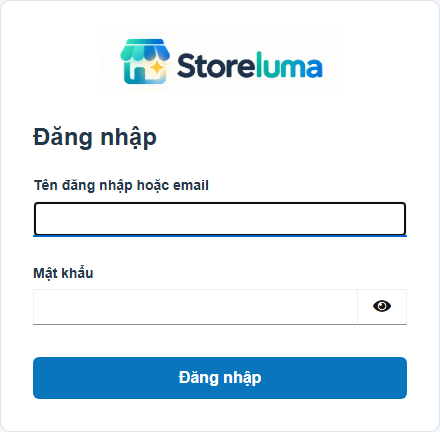
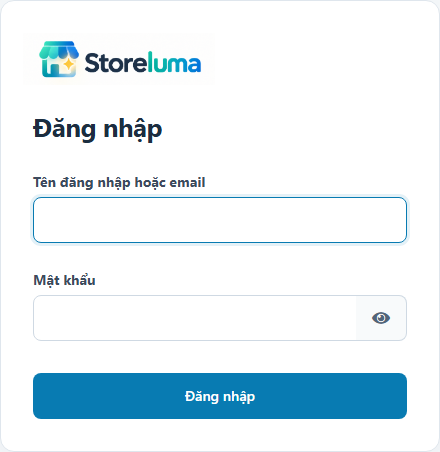
Refine sign-in screens and document authentication checks

diff --git a/infra/keycloak/themes/storeluma/login/resources/css/storeluma.css b/infra/keycloak/themes/storeluma/login/resources/css/storeluma.css
@@ -1,19 +1,50 @@
 :root {
-  --pf-v5-global--primary-color--100: #0875bc;
-  --pf-v5-global--primary-color--200: #065e97;
-  --pf-v5-global--FontFamily--text: Arial, Helvetica, sans-serif;
-  --pf-v5-global--FontFamily--heading: Arial, Helvetica, sans-serif;
+  --pf-v5-global--primary-color--100: #087bb2;
+  --pf-v5-global--primary-color--200: #06638f;
+  --pf-v5-global--FontFamily--text: "Segoe UI", Arial, sans-serif;
+  --pf-v5-global--FontFamily--heading: "Segoe UI", Arial, sans-serif;
 }
-.login-pf body { background: #f5f7fa; color: #24364a; }
-.pf-v5-c-login { min-height: 100dvh; padding: 32px 20px; }
-.pf-v5-c-login .pf-v5-c-login__container { display: block; width: min(440px, 100%); padding: 0; }
-#kc-header { margin: 0; padding: 28px 32px 8px; background: white; border: 1px solid #dce3eb; border-bottom: 0; border-radius: 10px 10px 0 0; }
-#kc-header-wrapper { width: 240px; max-width: 100%; height: 64px; margin: auto; background: url('../brand/Logo_Storeluma.png') center 48% / 100% auto no-repeat; font-size: 0; }
-.pf-v5-c-login__main { border: 1px solid #dce3eb; border-top: 0; border-radius: 0 0 10px 10px; box-shadow: none; }
-.pf-v5-c-login__main-header { border: 0; padding: 20px 32px; grid-template-columns: 1fr; }
-#kc-page-title { font-size: 24px; font-weight: 600; color: #24364a; }
+.login-pf body { background: #f4f7f9; color: #243346; }
+.pf-v5-c-login { min-height: 100dvh; padding: 32px 20px; display: flex; align-items: center; justify-content: center; }
+.pf-v5-c-login .pf-v5-c-login__container {
+  display: block; width: min(440px, 100%); padding: 0;
+  background: #fff; border: 1px solid #dfe6ed; border-radius: 14px;
+  box-shadow: 0 12px 36px #24364a0a;
+}
+#kc-header { margin: 0; padding: 32px 32px 0; background: transparent; }
+#kc-header-wrapper {
+  width: 192px; max-width: 100%; height: 52px; margin: 0 0 0 -10px;
+  background: url('../brand/Logo_Storeluma.png') center 48% / 100% auto no-repeat;
+  font-size: 0;
+}
+.pf-v5-c-login__main { background: transparent; border: 0; box-shadow: none; }
+.pf-v5-c-login__main-header { border: 0; padding: 24px 32px; grid-template-columns: 1fr; }
+#kc-page-title { font-size: 26px; line-height: 1.35; font-weight: 650; letter-spacing: -.5px; color: #1c2d3f; }
 .pf-v5-c-login__main-body { padding: 0 32px 32px; }
-.pf-v5-c-form-control { border-radius: 5px; --pf-v5-c-form-control--after--BorderBottomWidth: 1px; }
-.pf-v5-c-button.pf-m-primary { border-radius: 6px; min-height: 42px; font-weight: 600; }
+.pf-v5-c-form { --pf-v5-c-form--Gap: 22px; }
+.pf-v5-c-form__label { font-size: 14px; font-weight: 600; color: #3c4b5d; }
+.pf-v5-c-form-control { min-height: 46px; background: #fff; border: 1px solid #cfd9e3; border-radius: 8px; }
+.pf-v5-c-form-control::before, .pf-v5-c-form-control::after { border: 0 !important; }
+.pf-v5-c-form-control:focus-within { border-color: #087bb2; box-shadow: 0 0 0 3px #087bb21c; }
+.pf-v5-c-form-control.pf-m-error { border-color: #bc433c; }
+.pf-v5-c-form-control input { min-height: 44px; padding: 10px 12px; font-size: 15px; border-radius: 8px; }
+.pf-v5-c-form-control input:focus { outline: none; }
+.pf-v5-c-input-group { gap: 0; }
+.pf-v5-c-input-group .pf-v5-c-form-control { border-radius: 8px 0 0 8px; }
+.pf-v5-c-input-group .pf-v5-c-button {
+  min-width: 46px; border: 1px solid #cfd9e3; border-left: 0; border-radius: 0 8px 8px 0;
+  background: #f8fafb; color: #526579;
+}
+.pf-v5-c-input-group .pf-v5-c-button::after { border: 0; }
+.pf-v5-c-button.pf-m-primary { border-radius: 8px; min-height: 46px; font-size: 14px; font-weight: 600; }
+.pf-v5-c-button:focus-visible, a:focus-visible { outline: 3px solid #62b6d8; outline-offset: 3px; }
+.pf-v5-c-form__helper-text, .pf-v5-c-helper-text { font-size: 13px; }
 .pf-v5-c-login__main-footer:empty { display: none; }
-@media(max-width:480px) { #kc-header { padding: 24px 22px 8px; } .pf-v5-c-login__main-header { padding: 18px 22px; } .pf-v5-c-login__main-body { padding: 0 22px 24px; } }
+#reset-login .kc-tooltip-text { left: auto; right: 0; transform: none; max-width: 240px; white-space: normal; }
+.pf-v5-c-login__main-body > form { margin-top: 20px; }
+@media(max-width:480px) {
+  .pf-v5-c-login { padding: 24px 16px; }
+  #kc-header { padding: 26px 24px 0; }
+  .pf-v5-c-login__main-header { padding: 22px 24px; }
+  .pf-v5-c-login__main-body { padding: 0 24px 26px; }
+}

diff --git a/apps/web/src/product.css b/apps/web/src/product.css
@@ -129,20 +129,18 @@ details[open] code{display:block;max-width:210px;overflow-wrap:anywhere;font-siz
 .list-view .address{min-height:0}
 .list-view .readiness,.list-view .card-actions{border:0;padding:0;margin:0}
 .list-view .site-code{font-size:9px}
-.sign-in-page{min-height:100dvh;display:flex;flex-direction:column;align-items:center;justify-content:center;padding:38px 20px;background:#f4f7f9}
-.sign-in-brand{margin-bottom:30px}
-.sign-in-brand .brand{width:220px;height:59px}
-.sign-in-card{width:min(440px,100%);background:#fff;border:1px solid #e0e7ed;border-radius:15px;box-shadow:0 12px 40px #284b6409;padding:36px;text-align:center}
-.sign-in-symbol{display:grid;place-items:center;width:56px;height:56px;margin:0 auto 24px;border:1px solid #daebed;background:#eef7f7;color:#358994;border-radius:16px}
-.sign-in-symbol .icon{width:29px;height:29px}
-.sign-in-card .eyebrow{font-size:9px;letter-spacing:1.3px;color:#8b99a7}
-.sign-in-card h1{font-size:28px;font-weight:650;letter-spacing:-.6px;margin:10px 0 12px}
-.sign-in-card>p{color:#7e8c9a;font-size:13px;line-height:1.8}
-.sign-in-card>.button{width:100%;margin:28px 0 24px;justify-content:space-between;padding:13px 17px}
-.sign-in-help{display:flex;align-items:center;justify-content:center;gap:11px;border-top:1px solid #edf1f5;padding-top:23px;color:#8a98a6;font-size:12px;line-height:1.7;text-align:left}
-.sign-in-help .icon{width:20px;height:20px;color:#87a3b4}
-.sign-in-footer{margin-top:28px;font-size:12px;color:#9aa7b3}
+/* Entry screen shares the authentication theme's spacing and typography. */
+.sign-in-page{min-height:100dvh;display:grid;place-items:center;padding:32px 20px;background:#f4f7f9}
+.sign-in-card{width:min(440px,100%);background:#fff;border:1px solid #dfe6ed;border-radius:14px;box-shadow:0 12px 36px #24364a0a;padding:32px;text-align:left}
+.sign-in-brand{margin:0 0 24px -10px}
+.sign-in-brand .brand{width:192px;height:52px}
+.sign-in-card h1{font-size:26px;font-weight:650;letter-spacing:-.5px;line-height:1.35;margin:0 0 12px;color:var(--ink)}
+.sign-in-card>p{color:#667789;font-size:14px;line-height:1.7}
+.sign-in-card>.button{width:100%;margin:26px 0 24px;justify-content:space-between;min-height:46px;padding:12px 16px;font-size:14px}
+.sign-in-help{display:flex;align-items:flex-start;gap:10px;border-top:1px solid #e3e8ee;padding-top:20px;color:#667789;font-size:13px;line-height:1.7}
+.sign-in-help .icon{width:18px;height:18px;margin-top:2px;color:#438394}
 .sign-in-card .alert{margin-top:10px}
+
 
 @media(min-width:1600px){.site-grid:not(.list-view){grid-template-columns:repeat(3,minmax(0,1fr))}
 }
@@ -244,9 +242,9 @@ th,td{padding:14px}
 .modal{padding:22px;max-height:92dvh}
 .overlay{padding:14px}
 .modal h2{font-size:21px}
-.sign-in-card{padding:30px 25px}
-.sign-in-brand .brand{width:210px;height:56px}
-.sign-in-page{padding:26px 20px}
+.sign-in-card{padding:26px 24px}
+.sign-in-brand .brand{width:192px;height:52px}
+.sign-in-page{padding:24px 16px}
 .form-actions .button{white-space:normal}
 .breadcrumb strong{max-width:70px;overflow:hidden;text-overflow:ellipsis}
 }

diff --git a/apps/web/src/main.tsx b/apps/web/src/main.tsx
@@ -96,17 +96,14 @@ function App(){
   }
   if(loading)return <main className="loading"><Brand/><p>Đang mở Storeluma…</p></main>;
   if(!session)return <main className="sign-in-page">
-    <div className="sign-in-brand"><Brand/></div>
     <section className="sign-in-card" aria-labelledby="sign-in-title">
-      <div className="sign-in-symbol"><Icon name="store"/></div>
-      <span className="eyebrow">KHÔNG GIAN QUẢN LÝ CỬA HÀNG</span>
+      <div className="sign-in-brand"><Brand/></div>
       <h1 id="sign-in-title">Đăng nhập</h1>
-      <p>Hộ kinh doanh, địa điểm và đội ngũ của bạn.<br/>Cùng một nơi để quản lý.</p>
+      <p>Truy cập hộ kinh doanh và địa điểm làm việc của bạn.</p>
       <a className="button primary" href="/auth/login">Đăng nhập vào Storeluma<Icon name="arrow"/></a>
       {error&&<p role="alert" className="alert error">{error}</p>}
-      <div className="sign-in-help"><Icon name="shield"/><span>Sử dụng tài khoản và mã xác thực<br/>để truy cập không gian của bạn.</span></div>
+      <div className="sign-in-help"><Icon name="shield"/><span>Chuẩn bị tài khoản, mật khẩu và mã từ ứng dụng xác thực.</span></div>
     </section>
-    <p className="sign-in-footer">Storeluma · Quản lý hoạt động kinh doanh</p>
   </main>;
   return <div className="shell">
     <aside inert={Boolean(dialog)}>

diff --git a/docs/week-04/evidence/verification.md b/docs/week-04/evidence/verification.md
@@ -69,3 +69,11 @@ npm test
 Bộ kiểm thử tạo dữ liệu mới, dừng/khởi động Finance và khởi động lại Business/Gateway. Kết quả chi tiết nằm tại `docs/week-04/evidence/playwright-results.json`, `playwright-report/` và `test-results/` trên máy chạy; các tệp này được bỏ qua bởi Git.
 
 Kết luận đạt áp dụng cho nhiệm vụ nền hệ thống và quyền cơ bản của tuần 4. Danh mục/nhập hàng bắt đầu từ tuần 5; kiểm thử tải, nhiều trình duyệt, sao lưu/phục hồi và triển khai HTTPS/production chưa được nghiệm thu. Workflow đã có trên GitHub, nhưng kết quả CI chưa được xác minh trong lần rà soát này.
+
+## Kiểm tra bổ sung giao diện đăng nhập - 16/10/2026
+
+Phạm vi thay đổi: trang mở đầu React và CSS theme Keycloak. Gom logo/nội dung, đồng bộ chữ, ô nhập, nút và trạng thái focus. Không thay đổi logic xác thực.
+
+Build và TypeScript đạt. Kiểm tra trực tiếp bằng Chromium với backend thật đạt: mở trang đăng nhập; màn hình 320/390/768 px không tràn ngang; hiện/ẩn mật khẩu; báo sai tài khoản/mật khẩu; đăng nhập đúng bằng mật khẩu + TOTP; đăng xuất; không có lỗi JavaScript trên trang. Không chạy lại toàn bộ 20 ca trong đợt sửa trình bày này; kết quả toàn bộ phía trên thuộc ngày 15/10/2026.
+
+Đã thay ảnh 01-login, 08-credentials và 09-totp. Ảnh tài khoản/TOTP được chụp trước khi nhập bí mật. Các ảnh nghiệp vụ khác giữ từ lần kiểm thử toàn bộ trước.

diff --git a/docs/week-04/ui-design.md b/docs/week-04/ui-design.md
@@ -25,3 +25,7 @@ Chỉ tham khảo cách tổ chức giao diện. Phần triển khai dùng React
 W4-16 kiểm tra biểu mẫu, tìm không dấu, kết quả rỗng, bộ lọc, đổi cách xem, bàn phím, logo, nhật ký và chiều rộng 390 px. Các ca còn lại kiểm tra quyền và dữ liệu qua backend thật. Xem [kết quả kiểm thử](evidence/verification.md).
 
 Báo cáo tuần 3 giữ các phác thảo ban đầu; báo cáo tuần 4 cập nhật ảnh giao diện đã triển khai. Các màn hình cho nghiệp vụ các tuần sau vẫn là thiết kế, chưa tính là chức năng hoàn thành.
+
+## Hoàn thiện đăng nhập - 16/10/2026
+
+Trang mở đầu thu gọn vào một khung có logo gốc, tiêu đề và nút tiếp tục. Theme Keycloak dùng cùng font, màu, kích thước ô nhập/nút và focus rõ ràng; đồng bộ cả bước mật khẩu và TOTP. Kiểm tra hiện/ẩn mật khẩu, thông báo lỗi, đăng nhập, đăng xuất và bố cục hẹp đạt. Đây là phần hoàn thiện nhiệm vụ đăng nhập tuần 4.

diff --git a/docs/week-04/README.md b/docs/week-04/README.md
@@ -1,6 +1,6 @@
 # Sản phẩm tuần 4 - Storeluma 0.4.0
 
-Kỳ kế hoạch: 12/10-18/10/2026. Hoàn thiện báo cáo ngày 15/10/2026.
+Kỳ kế hoạch: 12/10-18/10/2026. Cập nhật báo cáo ngày 16/10/2026.
 Sinh viên: Phan Chí Cường - 23520207. GVHD: ThS. Trần Anh Dũng.
 
 ## Khởi động
